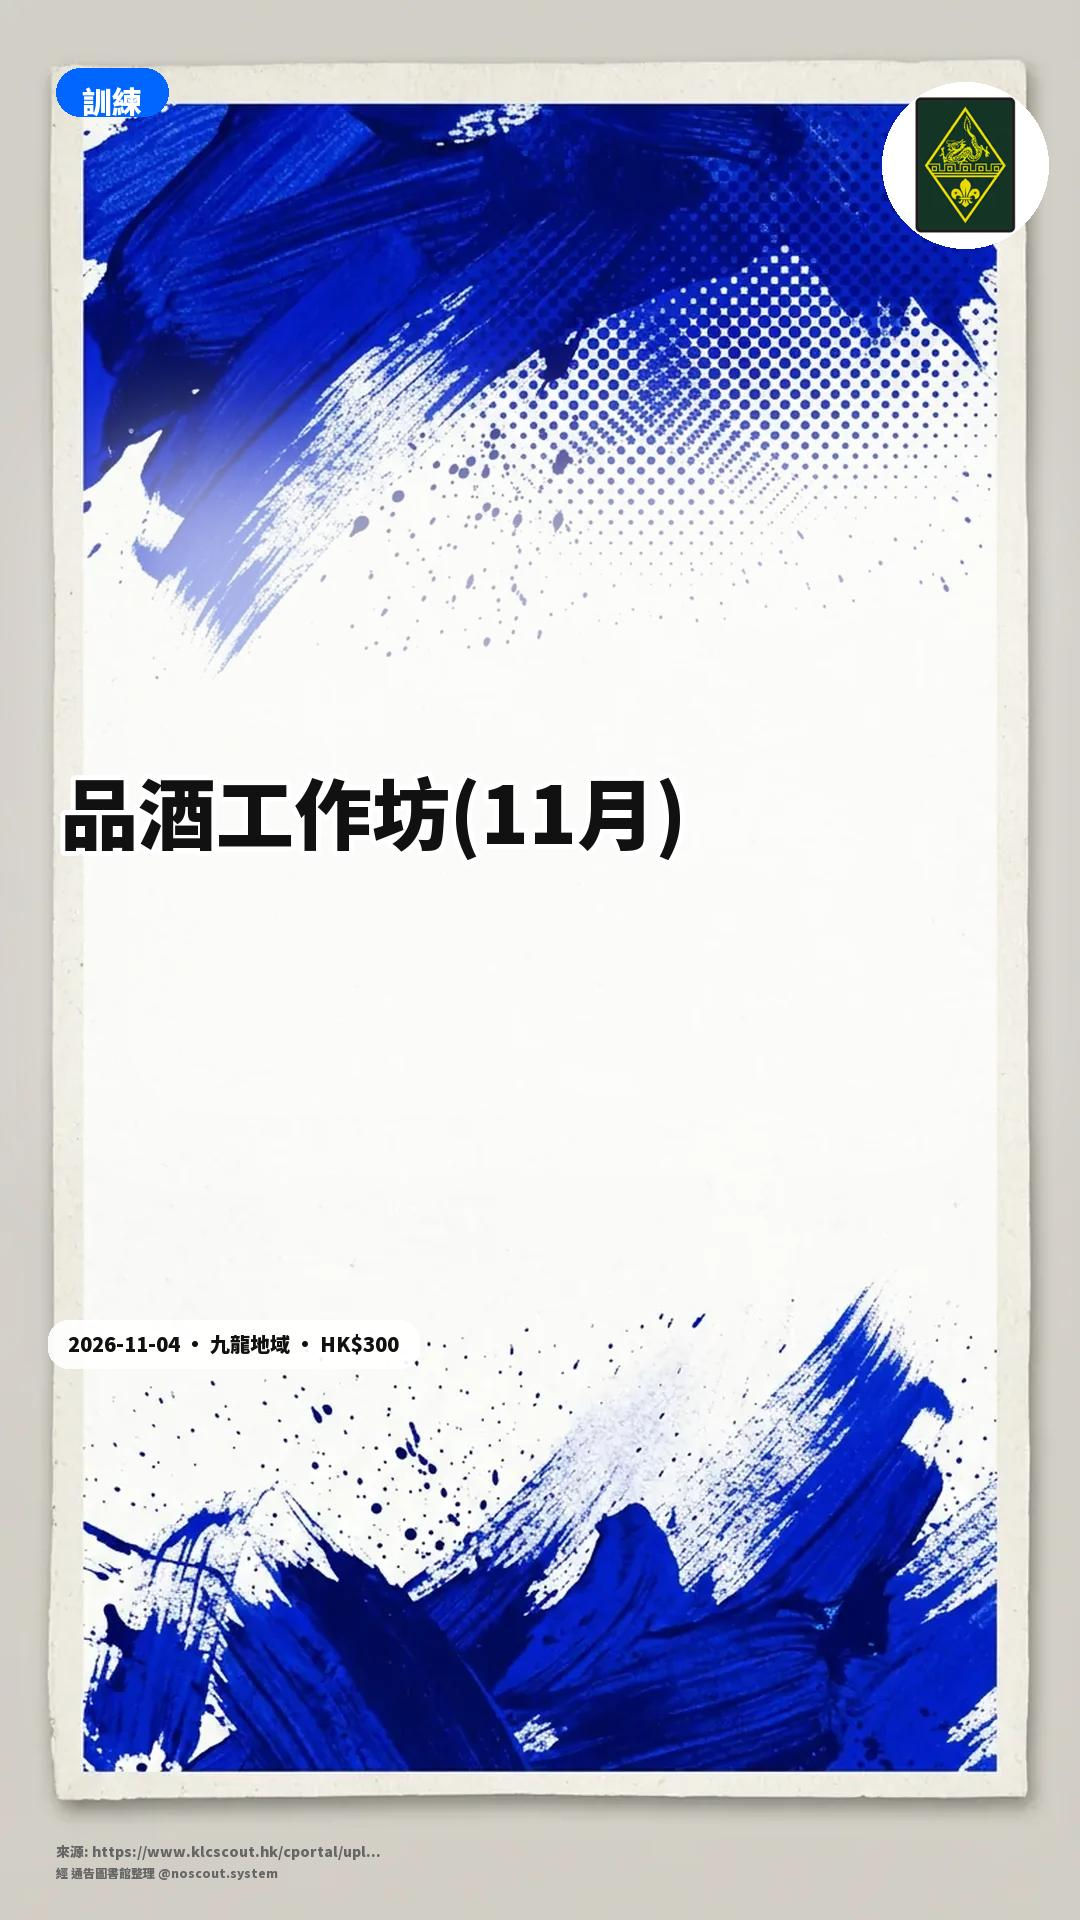
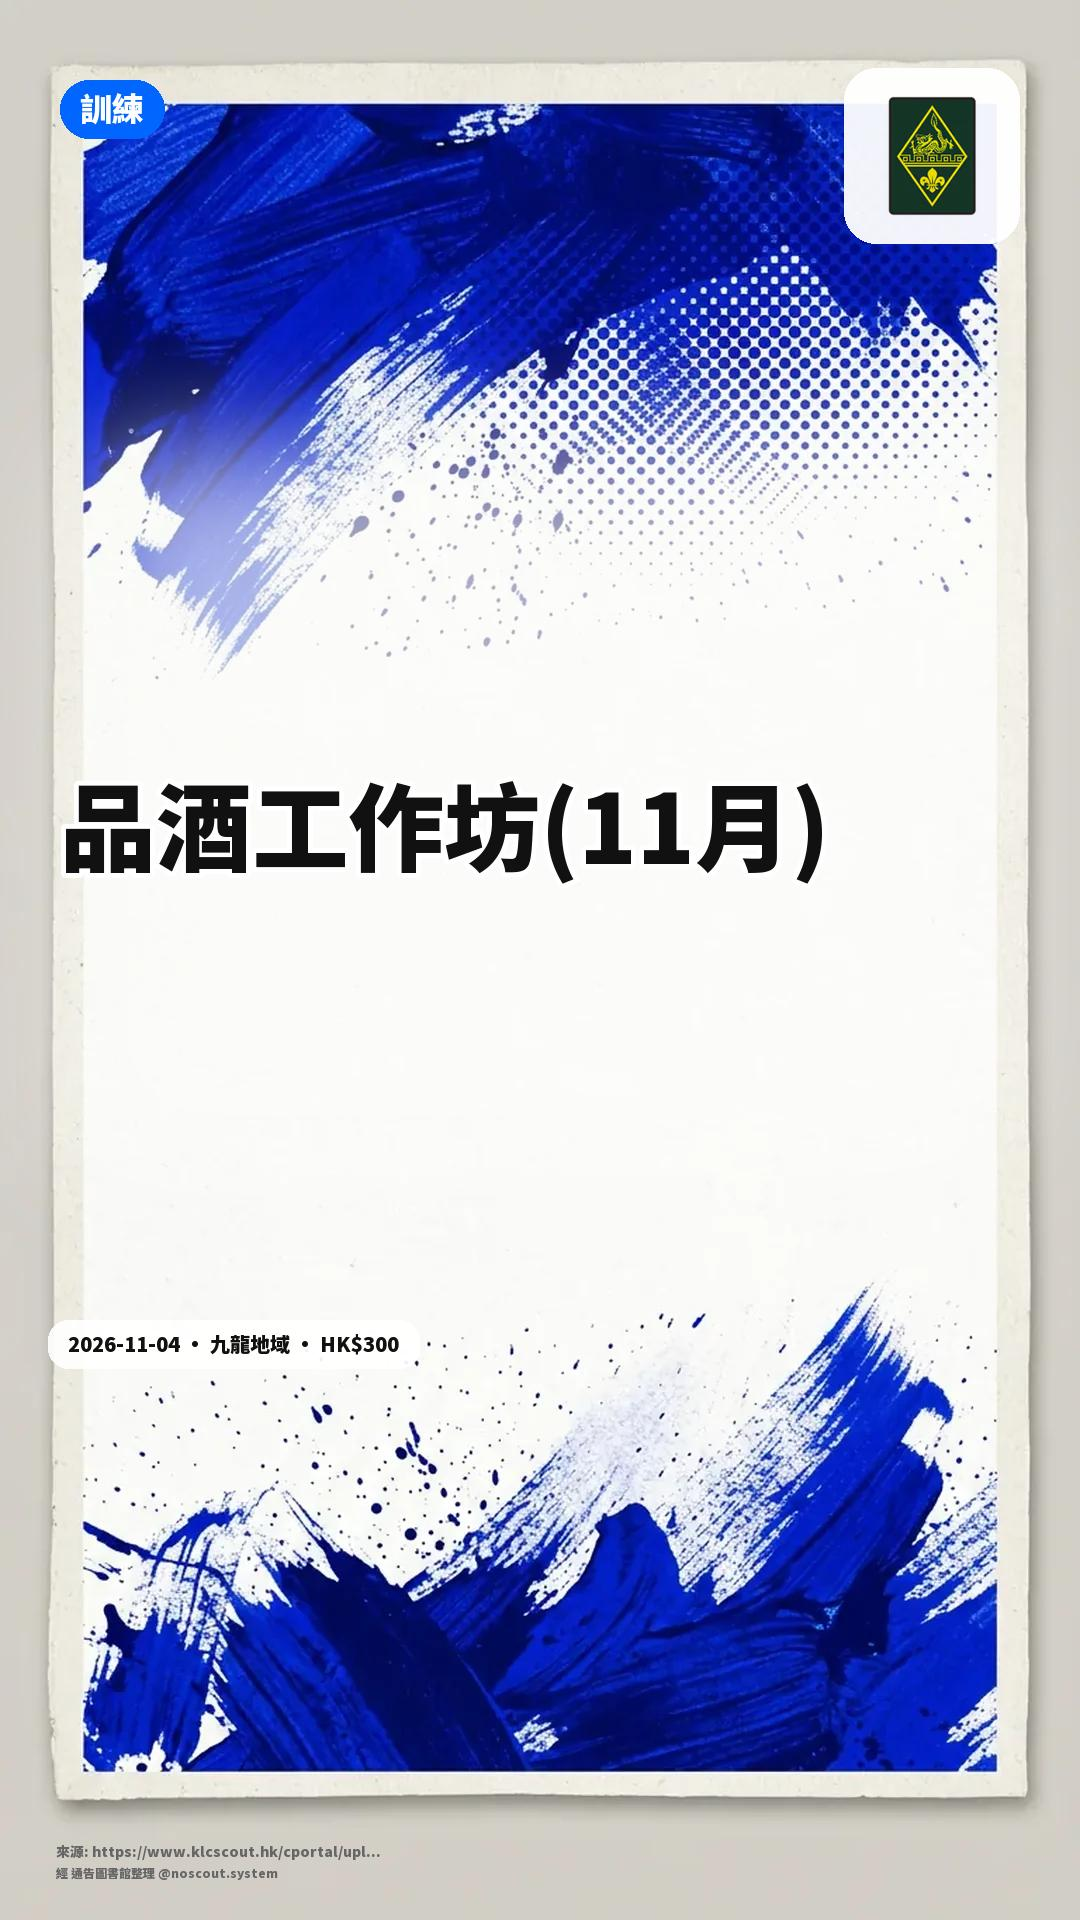
📄 IG 出圖交接文件 ＋ 修好疊字三個視覺問題 ＋ 補返 story-bases .vercelignore
交接文件（IG出圖-交接-2026-09-23.md）
- 已完成／未完成、用戶已定方向、紅線、9 款底色實測參數、座標、測試方法、環境陷阱

疊字引擎修正（tools/render_story_bases_demo.py）
- 標籤框同字出界 → 改用 glyph 實際 bbox 置中＋padding
- 方區徽下面凸圓圈 → 托底一律圓角方（同 app posterBadge 一致）
- 字級同 app 唔一致 → 改成 app 同一 ladder（96→84→72→64→56→48、行高 1.3、最多 4 行）

⚠ 補返 .vercelignore：之前只擋舊名 story-bases-demo/，新資料夾 story-bases/ 冇擋到
→ 上載一度暴漲到 4.83 MB（爆 budget）。已擋 → 1.02 MB ✅

Changed region(s): [[0.0611, 0.4062, 0.7639, 0.4688], [0.7639, 0.0312, 0.9778, 0.125], [0.0306, 0.0312, 0.1528, 0.0938]]

diff --git a/tools/render_story_bases_demo.py b/tools/render_story_bases_demo.py
@@ -158,39 +158,52 @@ def soft_plate(img, area, dark_plate, feather=56, alpha=214):
 
 
 def draw_title(draw, text, area, color, tmpl=""):
-    x0, y0, x1, y1, align, _cfg_color, base_sz = area
+    """標題。字級同 app（posterFitTitle）一致：96→84→72→64→56→48，
+    行高 1.3×，最多 4 行（同 app 一樣，唔會忽然變 5 行）。"""
+    x0, y0, x1, y1, align, _cfg, _base = area
     max_w = x1 - x0
     text = text.replace("\n", " ").strip()
-    for sz in [base_sz, base_sz - 8, base_sz - 14, 48, 40]:
-        font = load_font(sz, True)
+    max_h = y1 - y0
+    fallback = None
+    for size in (96, 84, 72, 64, 56, 48):
+        font = load_font(size, True)
         lines = wrap_cjk(draw, text, font, max_w)
-        total_h = len(lines) * (font.size + 16)
-        if total_h <= (y1 - y0) and len(lines) <= 5:
+        lh = round(size * 1.3)
+        block = dict(size=size, lines=lines, lh=lh, height=(len(lines) - 1) * lh + size)
+        if block["height"] <= max_h and not lines[-1].endswith("…") and len(lines) <= 4:
+            fallback = block
             break
-    else:
-        font = load_font(36, True)
-        lines = wrap_cjk(draw, text, font, max_w)[:6]
-        total_h = len(lines) * (font.size + 16)
-    y = y0 + (y1 - y0 - total_h) // 2
+        fallback = fallback or block
+    font = load_font(fallback["size"], True)
+    lines, lh = fallback["lines"], fallback["lh"]
+    total_h = fallback["height"]
+    y = y0 + (max_h - total_h) // 2
     for line in lines:
-        bbox = draw.textbbox((0, 0), line, font=font)
-        tw = bbox[2] - bbox[0]
-        x = x0 + (max_w - tw) // 2 if align == "center" else x0
-        if tmpl in ("service_wanted", "unc_topsecret") and color.startswith("#"):
+        if line != lines[-1] and y + lh > y1:
+            break
+        wtxt = draw.textbbox((0, 0), line, font=font)[2]
+        x = x0 + (max_w - wtxt) // 2 if align == "center" else x0
+        if tmpl in ("service_wanted", "unc_topsecret"):
             stroke = "#F2E4C8" if tmpl == "service_wanted" else "#FFFFFF"
         else:
             stroke = "#FFFFFF" if color == "#111111" else "#000000"
         draw.text((x, y), line, font=font, fill=color, stroke_width=5, stroke_fill=stroke)
-        y += font.size + 18
+        y += lh
 
 
-def draw_pill(draw, text, bg, fg, xy=(56, 68)):
-    font = load_font(30, True)
+def draw_pill(draw, text, bg, fg, xy=(56, 68), size=30):
+    """分類標籤。用 glyph 實際 bbox（唔係 (0,0) 起點）居中，
+    否則中文字會有 bearing 令字貼邊／出界。"""
+    font = load_font(size, True)
     bbox = draw.textbbox((0, 0), text, font=font)
-    tw = bbox[2] - bbox[0]
+    gw, gh = bbox[2] - bbox[0], bbox[3] - bbox[1]
+    pad_x = max(18, round(size * 0.62))
+    pad_y = max(12, round(size * 0.42))
+    w, h = gw + pad_x * 2, gh + pad_y * 2
     x, y = xy
-    draw.rounded_rectangle([x, y, x + tw + 52, y + 48], radius=24, fill=bg)
-    draw.text((x + 26, y + 10), text, font=font, fill=fg)
+    draw.rounded_rectangle([x, y, x + w, y + h], radius=h // 2, fill=bg)
+    draw.text((x + pad_x - bbox[0], y + pad_y - bbox[1]), text, font=font, fill=fg)
+    return w, h
 
 
 # ── 真區徽（取代假 LOGO 虛線圈） ────────────────────────────────
@@ -227,15 +240,22 @@ def badge_for(item):
     return None
 
 
-def paste_badge(img, badge, xy=(880, 80)):
+def paste_badge(img, badge, xy=(904, 68), size=176):
+    """真區徽。托底跟 app 嘅 posterBadge：白色圓角方（radius ≈ 18% 邊長）。
+    唔用圓圈 —— 方徽下面凸個圓出嚟就係之前嘅 bug。"""
     if badge is None:
         return
     x, y = xy
-    tile = Image.new("RGBA", (170, 170), (255, 255, 255, 52))
-    mask = Image.new("L", (170, 170), 0)
-    ImageDraw.Draw(mask).ellipse([2, 2, 168, 168], fill=255)
-    img.paste(tile, (x, y), mask)
-    img.paste(badge, (x + (170 - badge.width) // 2, y + (170 - badge.height) // 2), badge)
+    r = round(size * 0.18)
+    tile = Image.new("RGBA", (size, size), (0, 0, 0, 0))
+    ImageDraw.Draw(tile).rounded_rectangle([0, 0, size - 1, size - 1], radius=r,
+                                           fill=(255, 255, 255, 242))
+    img.paste(tile, (x, y), tile.split()[3])
+    inner = round(size * 0.84)
+    sc = min(inner / badge.width, inner / badge.height)
+    bw, bh = max(1, round(badge.width * sc)), max(1, round(badge.height * sc))
+    b2 = badge.resize((bw, bh), Image.LANCZOS)
+    img.paste(b2, (x + (size - bw) // 2, y + (size - bh) // 2), b2)
 
 
 def draw_footer(draw, item, tmpl):
@@ -340,8 +360,8 @@ def render_one(item, tmpl, out_path, force_color=None):
     draw_title(draw, item.get("title") or "未命名通告", area, color, tmpl)
     cat = item.get("category") if item.get("category") in CATEGORY_TO_POOL else "other"
     fg = "#000000" if tmpl in DARK_PILL_FG else ("#E8D8B0" if tmpl == "service_wanted" else "#FFFFFF")
-    draw_pill(draw, CATEGORY_LABEL.get(cat, "通告"), PILL_COLORS.get(tmpl, "#333"), fg, xy=(56, 68))
-    paste_badge(img, badge_for(item), xy=(880, 80))
+    draw_pill(draw, CATEGORY_LABEL.get(cat, "通告"), PILL_COLORS.get(tmpl, "#333"), fg, xy=(60, 80), size=32)
+    paste_badge(img, badge_for(item), xy=(844, 68))
     draw_footer(draw, item, tmpl)
     img.save(out_path, optimize=True)
     return luma, sd, color

diff --git a/IG出圖-交接-2026-09-23.md b/IG出圖-交接-2026-09-23.md
@@ -1,0 +1,147 @@
+# IG 分享圖／Story 出圖 —— 交接文件（2026-09-23）
+
+> 呢份係「下個對話專心做 IG 出圖」用嘅交接。上一個對話已完成嘅嘢、仲欠嘅嘢、已知陷阱、紅線，全部喺度。
+> 相關 branch：`arena/01a0c6d4-scout-circulars`（PR #30）。**未合併入 main。**
+
+---
+
+## 0. 一句總結
+
+App 入面已有 **12 款向量設計**嘅 IG 分享圖（即時 canvas，零伺服器），
+另外**已備好 9 張 AI 無字底圖**（`story-bases/*.webp`）＋ Python 疊字試樣引擎，但**未接入 app**。
+下一個對話嘅核心工作＝**接入**（見 §4）。
+
+---
+
+## 1. 已完成（上線喺 PR #30）
+
+| 項目 | 位置 | 狀態 |
+|---|---|---|
+| 12 款向量設計 + 縮圖 picker | `index.html`：`POSTER_DESIGNS`（~L2044）、`renderPoster()`（~L2532）、縮圖條 `paintIgDesigns()`（~L2932） | ✅ 已可喺 app IG 分享面板用 |
+| 自動內容圖層 | pill（分類）→ 真區徽 → 標題（自動字級）→ 資料卡（截止／對象／費用／名額）→ 日期＋地域行 → 落款 | ✅ 同上 |
+| PDF 內文出圖 + 落款帶（廣告位） | `composePdfImage()`（~L2372）、`pdfImageFooter()`（~L2356）；pdf.js 由 CDN 載，`/api/pdf-proxy` 只做 byte bridge | ✅ 已上線 |
+| 分享掣（電腦／手機都分享得到） | 分享面板 `share-sheet`；桌面走「複製＋貼上」 | ✅ 已修好 |
+| 出圖台 `?batch=1` | `index.html`：`initBatchView()` 起（~L4200 之後）；支援 `&limit`／`&date`／`&days`／`&mode`／`&design` | ✅ 127 條測試綠 |
+| 9 張 AI 無字底圖 | `story-bases/*.webp`（1080×1920，9 張共 1.23 MB） | ✅ 已入 repo，**未接 app** |
+| Python 疊字試樣引擎 | `tools/render_story_bases_demo.py`（食真 `cache.json`＋`enrich.json`） | ✅ 出過 9 款試樣 |
+| WebP→PNG 轉換器 | `tools/bases_webp_to_png.py` | ✅ |
+
+---
+
+## 2. 用戶已定嘅方向（唔好推翻）
+
+1. **繪圖路線唔食 PDF** —— 底圖＋標題／標籤抽取（`cache.json`＋`enrich.json`）已經足夠。
+2. **底圖必須零文字** —— 用戶原本嗰 9 張有 `TEMPLATE 2`、假 QR、假日期，唔可以用。
+3. **底圖唔可以放 Vercel** —— 9 張佔 1.23 MB，而 budget 只剩 1.00 / 2.00 MB。
+   做法：`.vercelignore` 擋住 `story-bases/`，app 由 `raw.githubusercontent` 讀（有 ACAO:\*，配 `crossOrigin='anonymous'` 唔會污染 canvas），jsDelivr 做後備。
+4. **LOGO 用真區徽**，唔要假虛線圈（`icons/orgs/orgs.json`，fallback 區→地域→總會）。
+5. **標題無資料就唔好出假字**（「詳情見內文」之類一律唔要）。
+
+---
+
+## 3. 三個已修好嘅視覺問題（2026-09-23）
+
+| # | 問題 | 成因 | 修法 |
+|---|---|---|---|
+| 1 | 字款／字級同 app 唔一致 | Python 版用 `NotoSansTC_900Black`＋自創 ladder（78→70→…→36） | 已改成 app 同一把尺：**96→84→72→64→56→48、行高 1.3、最多 4 行**。**但字體本身仍未統一**（app 用系統 `POSTER_FONT`：PingFang TC／Microsoft JhengHei；Python 用 NotoSansTC）。若要 100% 一樣，要將同一支 TTF 兩邊都用 |
+| 2 | 方區徽下面凸個圓圈 | Python 版無條件用圓形托底 | 已改圓角方托底（radius ≈ 18% 邊長，同 app `posterBadge` 一致） |
+| 3 | 左上標籤框同字出界 | `textbbox((0,0),…)` 唔計 glyph bearing，字貼邊／出框 | 已改用 glyph 實際 bbox 置中＋padding（`pad_x = 0.62×字級`） |
+
+---
+
+## 4. 下個對話要做嘅（建議次序）
+
+### 4.1 接入 9 款 AI 底圖入 app（核心）
+
+1. **底圖載入器**：`raw.githubusercontent.com/playerkousas-rgb/scout-circulars/main/story-bases/<款>.webp`
+   ＋ jsDelivr 後備；`crossOrigin='anonymous'`；**載唔到就自動退回向量款**（唔可以出白圖）。
+2. **擴充 `POSTER_DESIGNS`**：加 9 款（`cat`／`kind: 'base'`／`base: '<檔名>'`），
+   縮圖條要改成 **async 等底圖 decode**（現時 `paintIgDesigns()` 係同步畫）。
+3. **新 `kind: 'base'` 繪圖**：底圖 cover 之後，直接複用現有圖層（pill→徽→標題→資料卡→日期→落款），
+   即係唔使重寫，只加一個背景 phase。
+4. **字色／底板參數**（已實測，見 §5 表）：每款寫死 `titleColor` ＋ `plate`（要唔要柔邊底板）。
+5. **`?batch=1` 自動多一組**：出圖台同 IG 分享都 call 同一個 `renderPoster()`，接入後兩邊都有。
+
+### 4.2 決定未做
+- **A：21 款並存**（12 向量 ＋ 9 AI 底圖，用戶自己揀）← 建議
+- **B：只留 9 款 AI**（向量款收埋）
+
+### 4.3 之後
+- 換色／換風格、每分類多過一款、出 Story 專用版（9:16 已有 `mode:'story'`）
+
+---
+
+## 5. 9 款底圖實測參數（照抄即可）
+
+| 款 | 標題區亮度 | 雜亂度 | 字色 | 要底板？ |
+|---|---|---|---|---|
+| `train_blue` | 237.0 | 39.2 | `#111111` | 要（雜亂 39） |
+| `train_orange` | 240.8 | 13.7 | `#111111` | 唔要 |
+| `train_green` | 225.1 | 52.0 | `#111111` | **要**（雜亂 52，唔加一定撞） |
+| `competition_gold_black` | 27.1 | 17.3 | `#FFFFFF` | 唔要 |
+| `activity_army` | 45.5 | 10.4 | `#FFFFFF` | 唔要 |
+| `service_wanted` | 217.5 | 17.1 | `#3D1E00`（深啡）＋米色描邊 `#F2E4C8` | 薄底板 |
+| `unc_scope` | 20.1 | 7.7 | `#FFFFFF` | 唔要 |
+| `unc_topsecret` | 169.8 | 39.6 | `#111111` | 薄底板 |
+| `unc_glitch` | 15.1 | 23.9 | `#FFFFFF` | 唔要 |
+
+判定規則（`tools/render_story_bases_demo.py` 已實作）：
+- 亮度 >150 且雜亂 <32 → 跟款原色，唔加底板
+- 亮度 >150 且雜亂 ≥38 → 深字＋半透明柔邊底板（Gaussian blur 56px，alpha 170～214）
+- 亮度 <95 → 白字＋黑描邊
+- 中間調 → 亮度 >122 用深字，否則白字
+
+---
+
+## 6. 佈局座標（app 現行，可直接複用）
+
+```js
+POSTER_W = 1080, POSTER_H = 1350 (feed 4:5), POSTER_STORY_H = 1920 (story), POSTER_MX = 60
+pill  : x=60, y=80, 高 60, 字 32px
+badge : x=844, y=68, 176×176（圓角方托底 radius≈32）
+zone  : x0=60, x1=1020, y0=safeTop+210, y1=cardsTop-114
+標題   : 96→84→72→64→56→48，行高 1.3×，最多 4 行
+資料卡 : rowH=108, cardH=92；頒佈日期行永遠有
+落款   : creditY = H-46
+```
+
+---
+
+## 7. 紅線（唔可以踩）
+
+1. **唔准伺服器端出圖**（零 function、零 storage、零上傳）
+2. **Vercel 唔准加 Python 依賴**（`requirements.txt` 保持零依賴）
+3. **上載 budget 2 MB**：而家 1.00 MB；任何大檔要 `.vercelignore` 或搬去 raw
+4. **唔准削弱 bundle guard 嘅檢查 4**（`icons/icon-512.png`／`icon-maskable-512.png` 兩個豁免唔可以改）
+5. **IG Story 發佈唔可以自動化**：Graph API 貼嘅 Story 加唔到 link sticker，「撳 Story→專屬頁」個閉環會斷。出圖可以自動，發佈一定人手。
+
+---
+
+## 8. 測試同驗證
+
+```bash
+node test_share_branch.js                 # 127 ✅（IG 12 款、PDF 落款、分享掣、出圖台）
+python3 .github/scripts/vercel_bundle_guard.py   # 必須五項全綠、上載 ≤2 MB
+python3 tools/render_story_bases_demo.py  # 9 款 AI 底圖試樣（需 pip install pillow）
+node test_share_branch.js 之類測試冇覆蓋 canvas 真繪圖 → 要另開 jsdom ＋ @napi-rs/canvas 才驗到
+```
+
+**已知環境陷阱**
+- 本地 Chromium 起唔到（puppeteer 下載被 reset、@sparticuz/chromium 缺 `libnspr4.so`、apt 唔通）→ 要真 canvas 驗證就要喺 CI（scrape.yml 已裝 Chromium）
+- jsdom 要喺 repo 內 `npm i --no-save jsdom` 先 require 到（唔好喺 `/tmp` 行）
+- sandbox 重啟會清 `/tmp` 同 `node_modules`（`~/.cache/fonts` 都會冇）→ 字體要重新 `npm pack @expo-google-fonts/noto-sans-tc`
+
+---
+
+## 9. 檔案地圖
+
+| 路徑 | 內容 |
+|---|---|
+| `index.html` | 12 款設計、`renderPoster()`、IG 分享面板、PDF 出圖＋落款帶、`?batch=1` 出圖台 |
+| `story-bases/*.webp` | 9 張 AI 無字底圖（1080×1920） |
+| `story-bases/demo/` | 9 款實樣（真通告＋真區徽）＋ `_sheet.jpg` 並列對比 |
+| `tools/render_story_bases_demo.py` | Python 疊字試樣引擎（自動字色／底板） |
+| `tools/bases_webp_to_png.py` | WebP→PNG（畀用戶自己嘅 Pillow 腳本） |
+| `icons/orgs/orgs.json` ＋ `*-256.png` | 真區徽（PNG 版同時係 Pillow 用；`.vercelignore` 只擋 `-256.png`，AVIF 留低俾 app） |
+| `tools/render_story_templates.py` | Actions 每日 9 款 Pillow 草稿（push 去 `stories` 分支） |
+| `story_queue.py` | 揀當日通告嘅唯一真源（`batchQueueRange` 已對齊，逐欄一致） |
